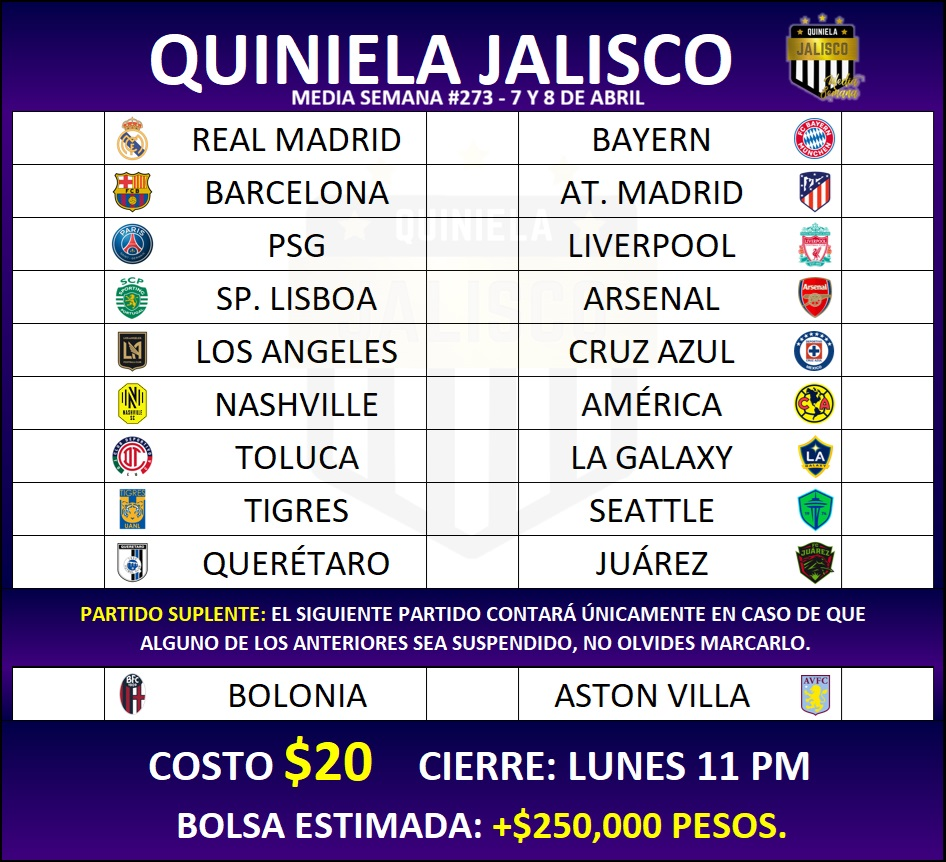
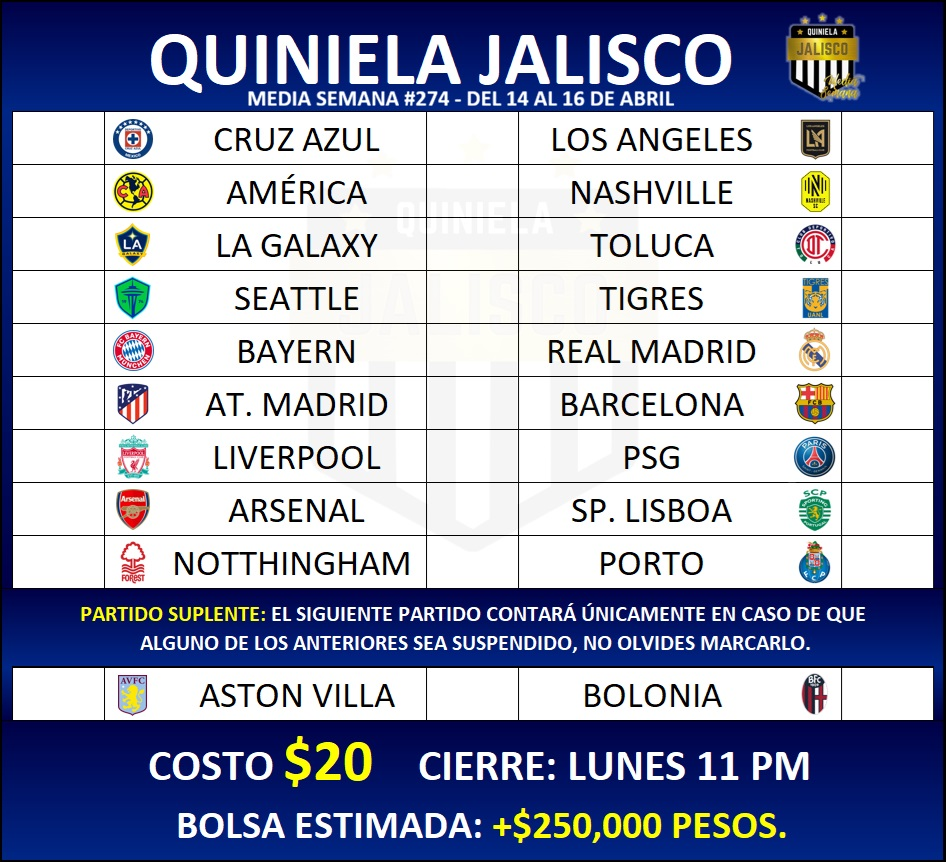
ofgjof

diff --git a/MediaSemana/stylesmSusp.css b/MediaSemana/stylesmSusp.css
@@ -94,8 +94,8 @@ body{
     margin-top: 9%;
     border: solid 1px black;
     border-radius: 0 0 14px 14px;
-    background: -webkit-linear-gradient(0.49turn, rgb(38,0,104) -7%, rgb(0 6 82) 80%);
-    background: linear-gradient(0.49turn, rgb(38,0,104) -7%, rgb(0 6 82) 80%);
+    background: -webkit-linear-gradient(0.49turn, rgb(0,23,109) -7%, rgb(0 6 82) 80%);
+    background: linear-gradient(0.49turn, rgb(0,23,109) -7%, rgb(0 6 82) 80%);
 }
 
 .text-lg{
